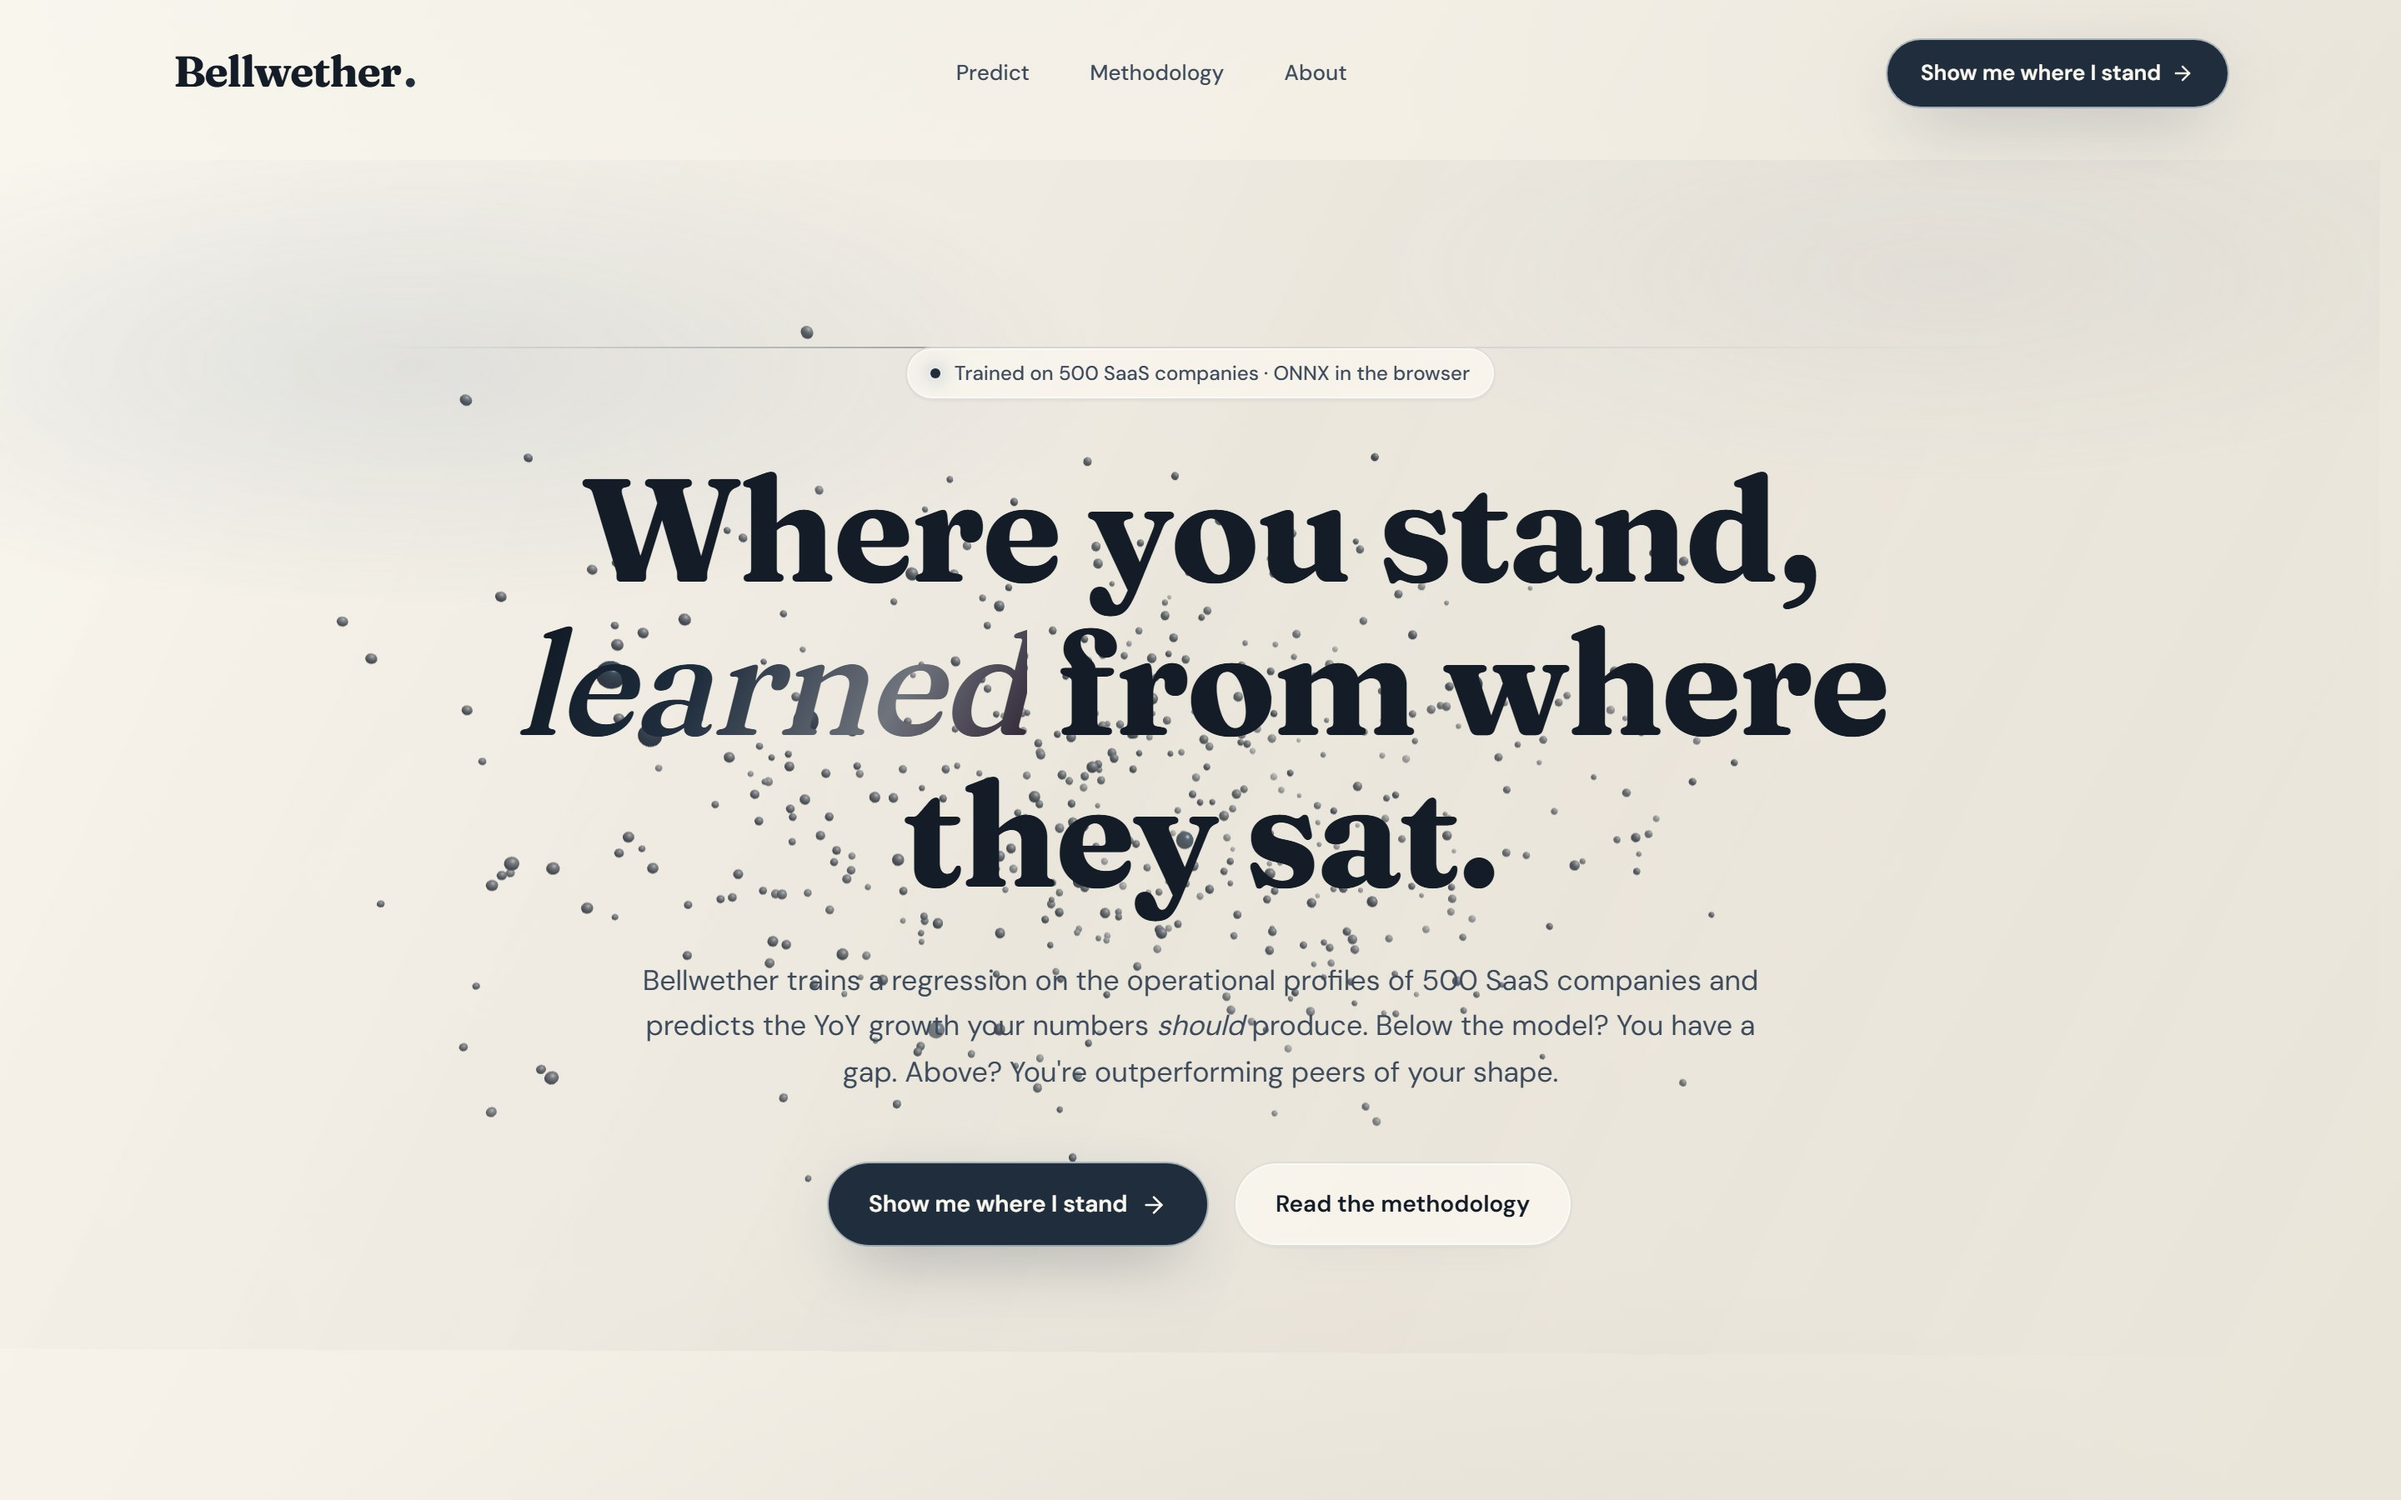
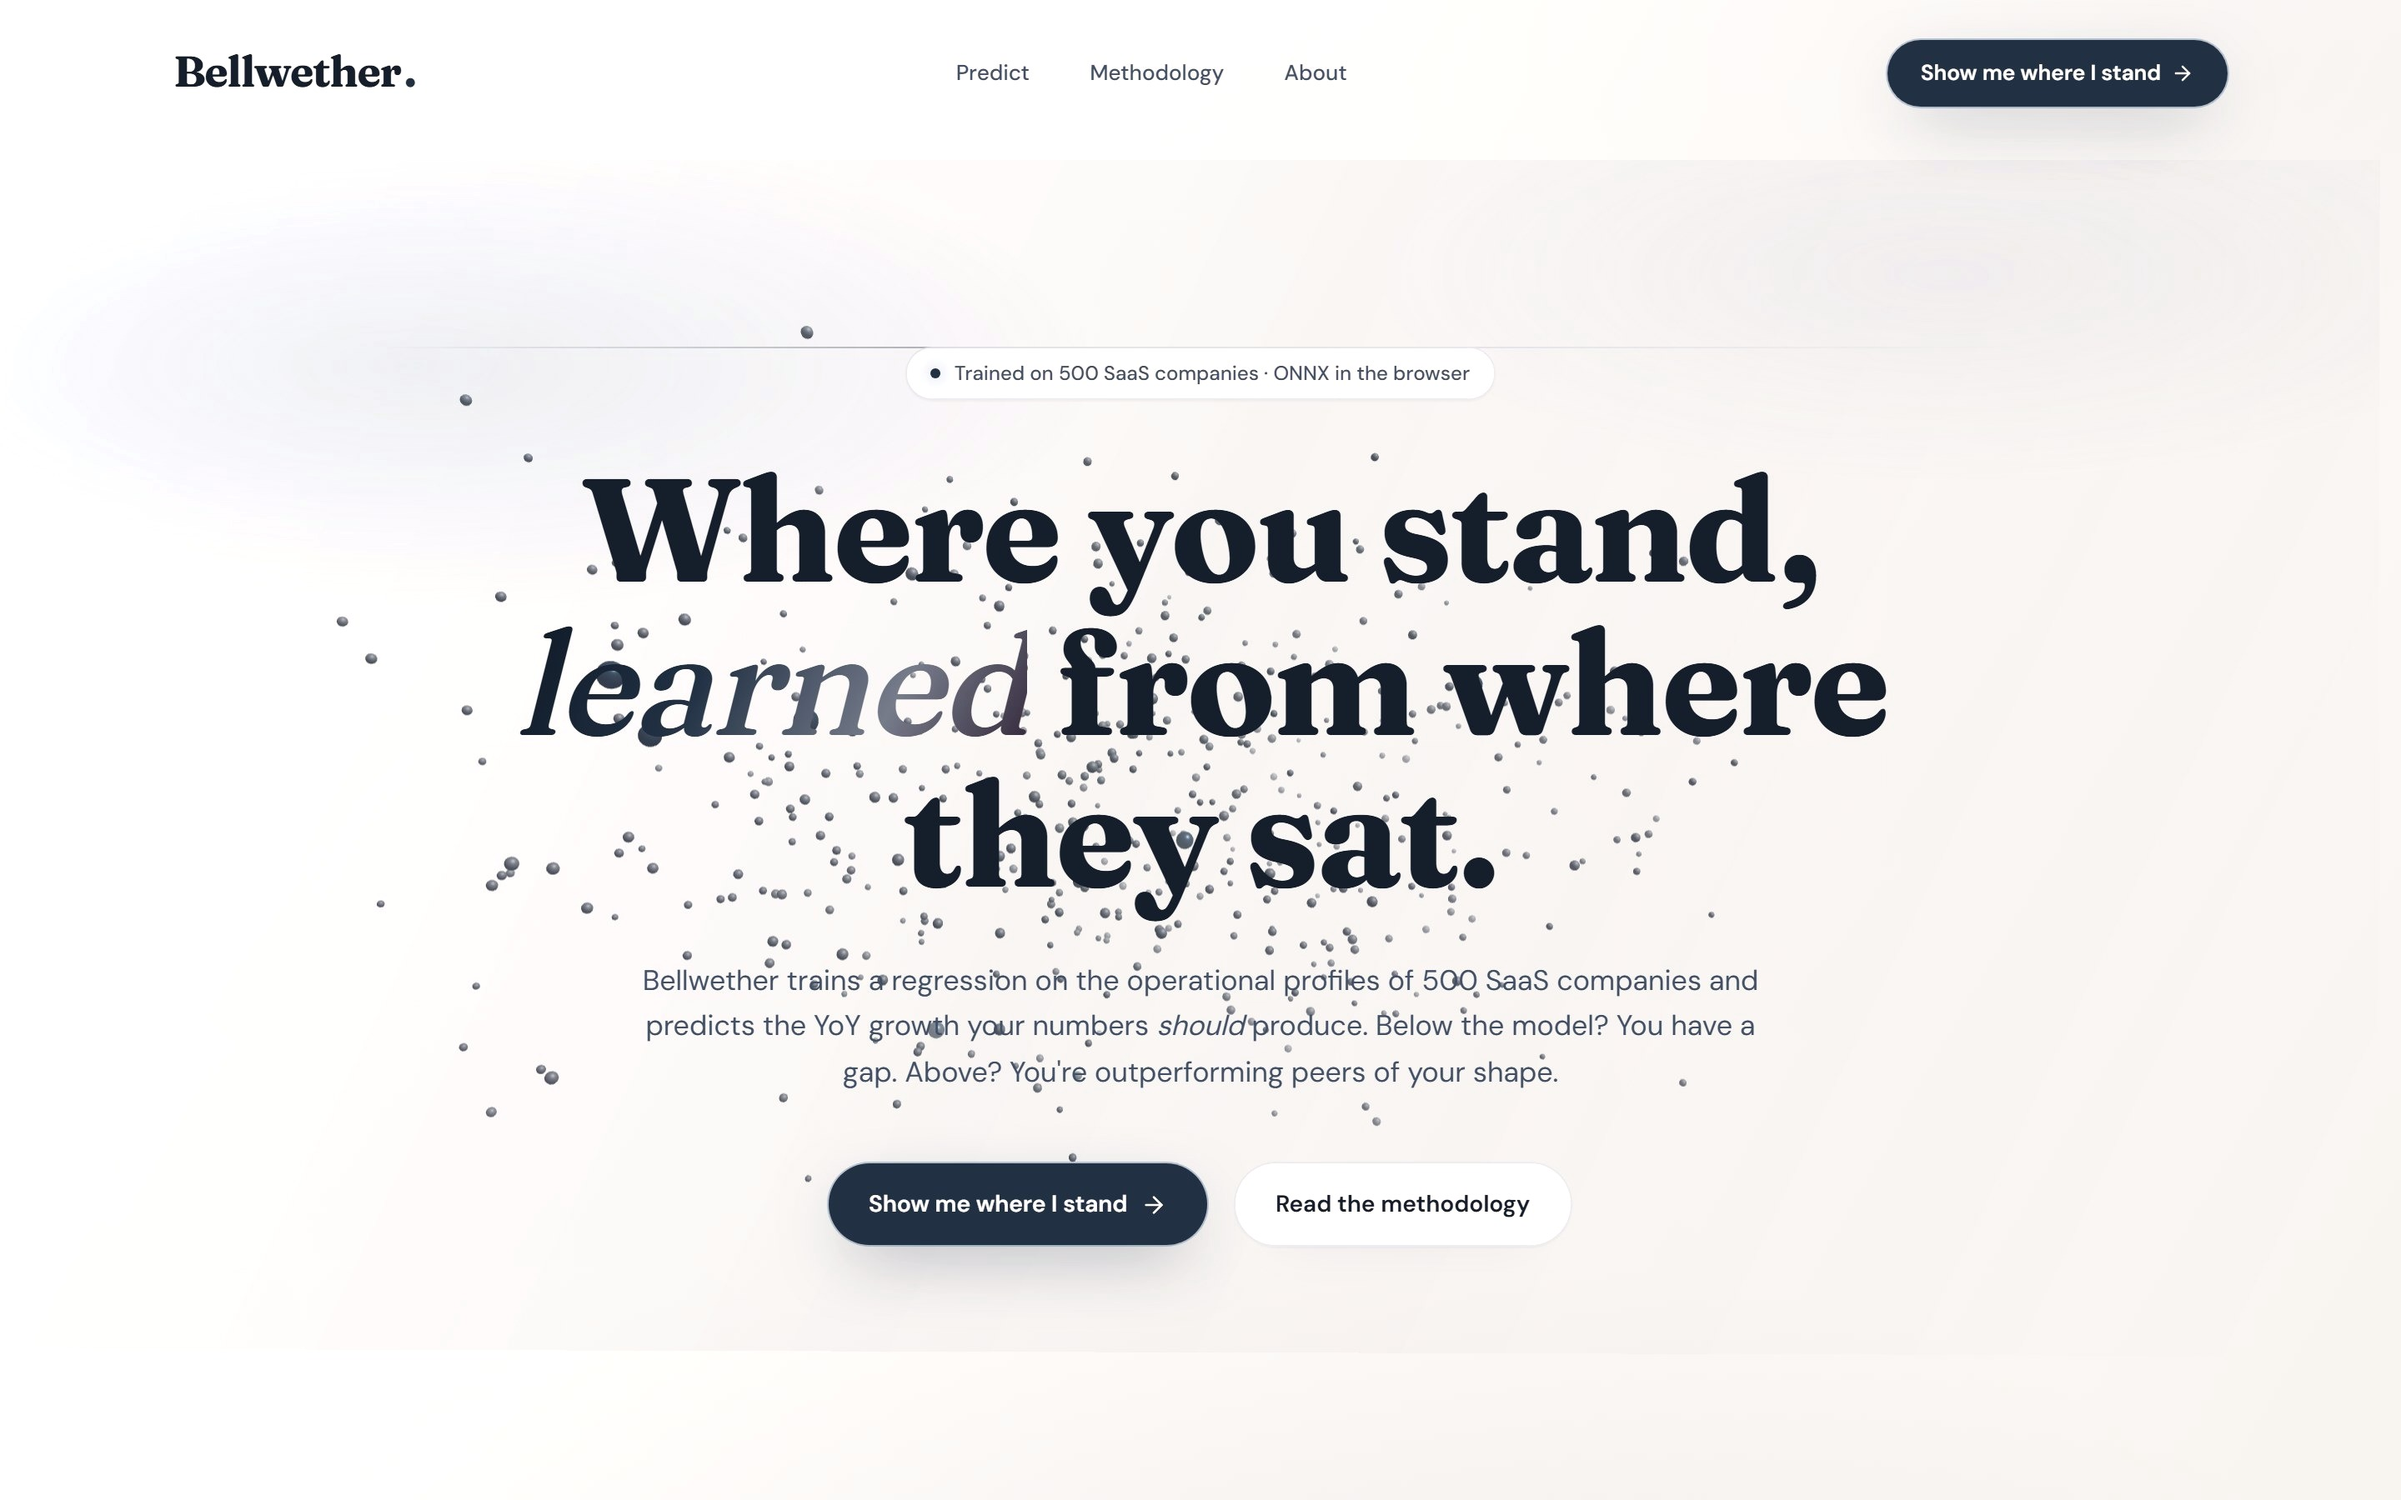
Bake screenshot brightness, StarDust cursor trail, hero card spacing
- Vantage/Bellwether brightness permanently baked into the JPEGs via
  white-point correction (bg now 249/247/243 vs Planmate 237/233/220) —
  measurably brighter than Planmate; CSS filters removed
- Hero flanking cards moved below the corner captions (no overlap)
- StarDust trail: self-twinkling sapphire orbs with glowing halos +
  spinning champagne four-point star flares, depth-scaled drift

diff --git a/src/components/fluid-trail.tsx b/src/components/fluid-trail.tsx
@@ -3,16 +3,27 @@
 import { useEffect, useRef } from "react";
 
 /**
- * FluidTrail — a dark ink ribbon that flows behind the cursor like a
- * calligraphy stroke being pulled through water. Canvas-drawn: a tapered
- * comet of deep sapphire ink with a fine champagne-gold core, fading as it
- * ages so the eye naturally follows wherever the cursor travels.
- * Desktop pointers only; pointer-transparent; rAF pauses when idle.
+ * StarDust trail — a comet of self-shining particles pours out of the
+ * cursor: deep-sapphire orbs with soft glowing halos and champagne-gold
+ * four-point star flares that twinkle as they drift, shrink, and die.
+ * Depth illusion: near particles are large and soft, far ones small and
+ * sharp, all easing apart in 3D-ish drift. Canvas 2D, desktop only,
+ * pointer-transparent; the rAF loop sleeps when the dust settles.
  */
 
-type Pt = { x: number; y: number; t: number };
-
-const LIFE = 650; // ms a point stays alive
+type P = {
+  x: number;
+  y: number;
+  vx: number;
+  vy: number;
+  born: number;
+  life: number;
+  size: number;
+  depth: number; // 0 far → 1 near
+  gold: boolean;
+  phase: number;
+  spin: number;
+};
 
 export default function FluidTrail() {
   const canvasRef = useRef<HTMLCanvasElement>(null);
@@ -22,7 +33,6 @@ export default function FluidTrail() {
     const motionOk = !window.matchMedia("(prefers-reduced-motion: reduce)").matches;
     const canvas = canvasRef.current;
     if (!fine || !motionOk || !canvas) return;
-
     const ctx = canvas.getContext("2d");
     if (!ctx) return;
 
@@ -31,57 +41,95 @@ export default function FluidTrail() {
       canvas.width = window.innerWidth * dpr;
       canvas.height = window.innerHeight * dpr;
       ctx.setTransform(dpr, 0, 0, dpr, 0, 0);
-      ctx.lineCap = "round";
-      ctx.lineJoin = "round";
     };
     resize();
     window.addEventListener("resize", resize);
 
-    const points: Pt[] = [];
+    const parts: P[] = [];
     let raf = 0;
     let running = false;
+    let lastSpawn = { x: -999, y: -999 };
+
+    const spawn = (x: number, y: number, speed: number) => {
+      const n = Math.min(2 + Math.floor(speed / 18), 4);
+      for (let i = 0; i < n; i++) {
+        const depth = Math.random();
+        parts.push({
+          x: x + (Math.random() - 0.5) * 10,
+          y: y + (Math.random() - 0.5) * 10,
+          vx: (Math.random() - 0.5) * 1.4,
+          vy: (Math.random() - 0.5) * 1.4 - 0.25,
+          born: performance.now(),
+          life: 600 + Math.random() * 500,
+          size: 2.5 + depth * 7,
+          depth,
+          gold: Math.random() < 0.4,
+          phase: Math.random() * Math.PI * 2,
+          spin: (Math.random() - 0.5) * 0.006,
+        });
+      }
+      if (parts.length > 140) parts.splice(0, parts.length - 140);
+    };
+
+    const star = (x: number, y: number, r: number, rot: number) => {
+      ctx.beginPath();
+      for (let a = 0; a < 4; a++) {
+        const ang = rot + (a * Math.PI) / 2;
+        ctx.moveTo(x, y);
+        ctx.lineTo(x + Math.cos(ang) * r, y + Math.sin(ang) * r);
+      }
+      ctx.stroke();
+    };
 
     const draw = () => {
       const now = performance.now();
-      while (points.length && now - points[0].t > LIFE) points.shift();
       ctx.clearRect(0, 0, window.innerWidth, window.innerHeight);
 
-      if (points.length > 2) {
-        // three layered tapered ribbons: a wide airy halo, a satin body in
-        // light sapphire, and a champagne-gold thread at the centre — wide
-        // and luminous at the cursor, melting away toward the tail
-        for (let i = points.length - 1; i > 1; i--) {
-          const p0 = points[i - 1];
-          const p1 = points[i];
-          const age = (now - p1.t) / LIFE; // 0 fresh → 1 dead
-          const fade = Math.pow(1 - age, 1.5);
-          const wave = 1 + 0.12 * Math.sin(i * 0.55 + now / 160);
+      for (let i = parts.length - 1; i >= 0; i--) {
+        const p = parts[i];
+        const t = (now - p.born) / p.life;
+        if (t >= 1) {
+          parts.splice(i, 1);
+          continue;
+        }
+        p.x += p.vx;
+        p.y += p.vy;
+        p.vy -= 0.004; // gentle float upward
 
-          const seg = () => {
-            ctx.beginPath();
-            ctx.moveTo(p0.x, p0.y);
-            ctx.lineTo(p1.x, p1.y);
-            ctx.stroke();
-          };
+        const fade = Math.pow(1 - t, 1.4);
+        // self-shine: each particle twinkles on its own rhythm
+        const twinkle = 0.55 + 0.45 * Math.sin(p.phase + now / (90 + p.depth * 110));
+        const a = fade * twinkle;
+        const r = p.size * (1 - t * 0.5);
 
-          // airy halo
-          ctx.strokeStyle = `rgba(96, 122, 196, ${0.12 * fade})`;
-          ctx.lineWidth = (52 * fade + 2) * wave;
-          seg();
-
-          // satin body — light sapphire
-          ctx.strokeStyle = `rgba(64, 92, 168, ${0.26 * fade})`;
-          ctx.lineWidth = (26 * fade + 1.2) * wave;
-          seg();
-
-          // champagne thread
-          ctx.strokeStyle = `rgba(196, 164, 96, ${0.55 * fade})`;
-          ctx.lineWidth = 4.5 * fade + 0.6;
-          seg();
+        if (p.gold) {
+          // champagne star flare
+          ctx.strokeStyle = `rgba(178, 140, 60, ${0.75 * a})`;
+          ctx.lineWidth = 1 + p.depth;
+          star(p.x, p.y, r * 2.6, now * p.spin + p.phase);
+          ctx.fillStyle = `rgba(214, 178, 100, ${0.9 * a})`;
+          ctx.beginPath();
+          ctx.arc(p.x, p.y, r * 0.55, 0, Math.PI * 2);
+          ctx.fill();
+        } else {
+          // sapphire orb with glowing halo
+          const grad = ctx.createRadialGradient(p.x, p.y, 0, p.x, p.y, r * 2.4);
+          grad.addColorStop(0, `rgba(35, 58, 114, ${0.85 * a})`);
+          grad.addColorStop(0.45, `rgba(54, 80, 150, ${0.35 * a})`);
+          grad.addColorStop(1, "rgba(54, 80, 150, 0)");
+          ctx.fillStyle = grad;
+          ctx.beginPath();
+          ctx.arc(p.x, p.y, r * 2.4, 0, Math.PI * 2);
+          ctx.fill();
+          // bright core
+          ctx.fillStyle = `rgba(22, 37, 77, ${0.9 * a})`;
+          ctx.beginPath();
+          ctx.arc(p.x, p.y, r * 0.5, 0, Math.PI * 2);
+          ctx.fill();
         }
       }
 
-      if (points.length) {
+      if (parts.length) {
         raf = requestAnimationFrame(draw);
       } else {
         ctx.clearRect(0, 0, window.innerWidth, window.innerHeight);
@@ -90,23 +138,12 @@ export default function FluidTrail() {
     };
 
     const onMove = (e: PointerEvent) => {
-      const lastPt = points[points.length - 1];
-      // interpolate fast moves so the ribbon stays continuous
-      if (lastPt) {
-        const dx = e.clientX - lastPt.x;
-        const dy = e.clientY - lastPt.y;
-        const dist = Math.hypot(dx, dy);
-        const steps = Math.min(Math.floor(dist / 14), 6);
-        for (let s = 1; s <= steps; s++) {
-          points.push({
-            x: lastPt.x + (dx * s) / (steps + 1),
-            y: lastPt.y + (dy * s) / (steps + 1),
-            t: performance.now(),
-          });
-        }
-      }
-      points.push({ x: e.clientX, y: e.clientY, t: performance.now() });
-      if (points.length > 90) points.splice(0, points.length - 90);
+      const dx = e.clientX - lastSpawn.x;
+      const dy = e.clientY - lastSpawn.y;
+      const dist = Math.hypot(dx, dy);
+      if (dist < 22) return;
+      lastSpawn = { x: e.clientX, y: e.clientY };
+      spawn(e.clientX, e.clientY, dist);
       if (!running) {
         running = true;
         raf = requestAnimationFrame(draw);

diff --git a/src/components/sections/hero.tsx b/src/components/sections/hero.tsx
@@ -152,10 +152,11 @@ const HERO_CARDS: {
   fast?: boolean;
   delay: number;
 }[] = [
-  { slug: "vantage", pos: { left: "4%", top: "16%" }, rot: -7, delay: 0 },
-  { slug: "planmate", pos: { left: "10%", bottom: "14%" }, rot: 5, fast: true, delay: 0.12 },
-  { slug: "bellwether", pos: { right: "4%", top: "15%" }, rot: 6, delay: 0.06 },
-  { slug: "kusum-farm", pos: { right: "9%", bottom: "13%" }, rot: -5, fast: true, delay: 0.18 },
+  // kept clear of the corner meta captions (top-24 band) and bottom bar
+  { slug: "vantage", pos: { left: "3%", top: "38%" }, rot: -7, delay: 0 },
+  { slug: "planmate", pos: { left: "12%", bottom: "16%" }, rot: 5, fast: true, delay: 0.12 },
+  { slug: "bellwether", pos: { right: "3%", top: "37%" }, rot: 6, delay: 0.06 },
+  { slug: "kusum-farm", pos: { right: "12%", bottom: "15%" }, rot: -5, fast: true, delay: 0.18 },
 ];
 
 /** Per-character rise-in for the giant name. */

diff --git a/src/components/sections/projects.tsx b/src/components/sections/projects.tsx
@@ -7,10 +7,9 @@ import { PROJECTS, type Project } from "@/lib/projects";
 
 /** Source screenshots shot against beige backdrops get a gentle lift so
  *  every panel reads equally bright. */
-const SCREEN_FILTERS: Record<string, string> = {
-  vantage: "brightness(1.14) contrast(1.07) saturate(1.16)",
-  bellwether: "brightness(1.14) contrast(1.07) saturate(1.16)",
-};
+// Brightness is baked into the source JPEGs now (white-point matched to
+// Planmate) — no per-image CSS filters needed.
+const SCREEN_FILTERS: Record<string, string> = {};
 
 /**
  * Projects — full-screen stacking panels. Each project pins to the viewport
